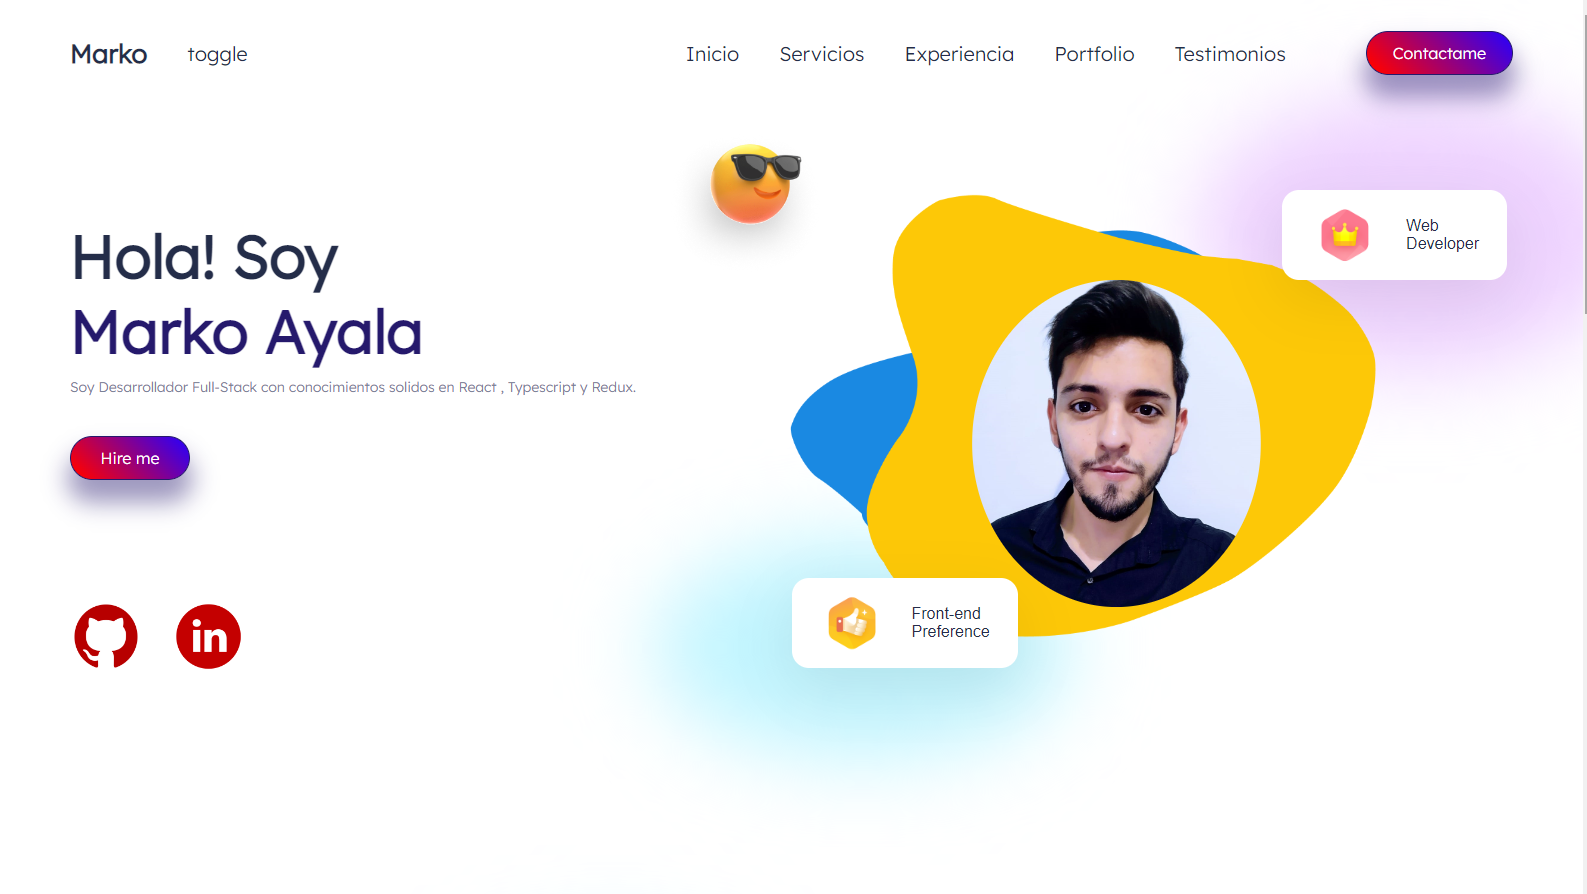
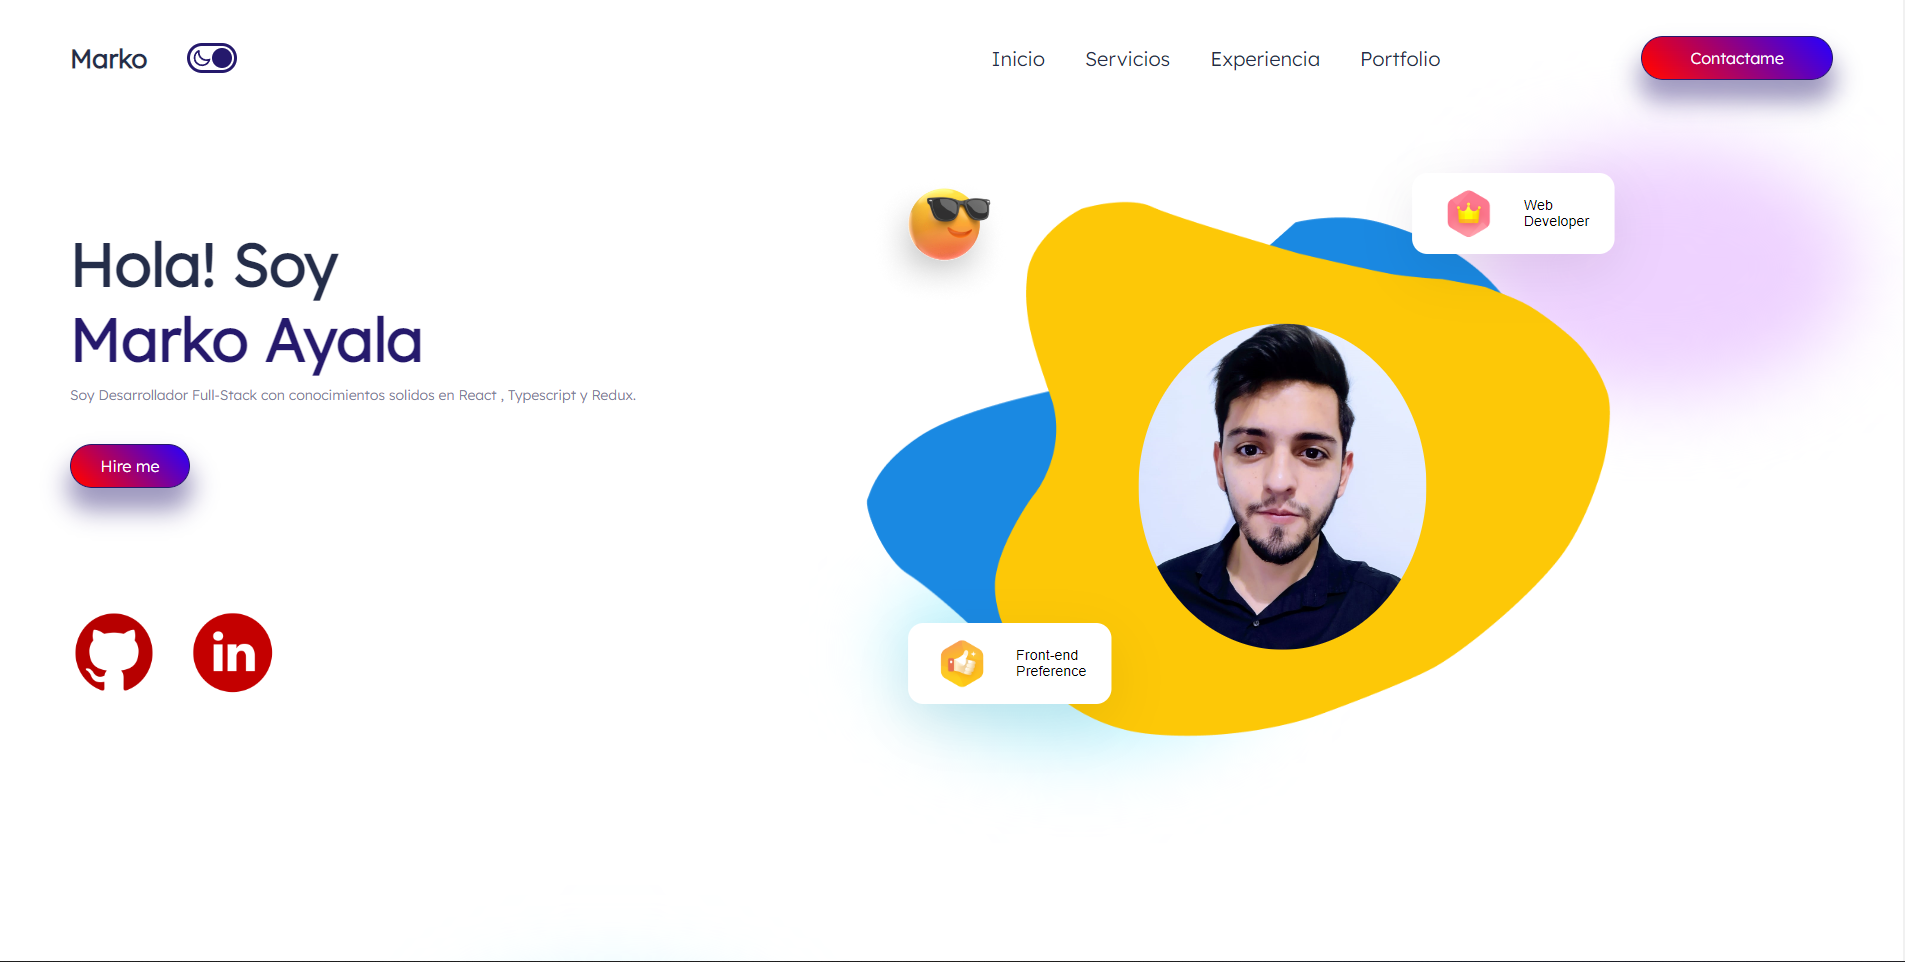
responsive end

diff --git a/src/Components/NavBar/Intro/Intro.css b/src/Components/NavBar/Intro/Intro.css
@@ -163,3 +163,32 @@ font-size: 3rem;
         margin-left: -4rem !important;
     }
 }
+@media screen and (max-width:899px) and (min-width:481px){
+    .intro{
+        flex-direction: column;
+        height: 64rem;
+        gap:7rem;
+    }
+    .i-right{
+        transform: scale(1.1);
+        left: 2.5rem;
+    }
+    .i-right .blur{
+        display: none;
+    }
+    .floating-div:nth-of-type(1){
+        top:-5rem !important;
+        left: 12rem !important;
+    }
+    .floating-div:nth-of-type(2){
+        left: -1rem !important;
+        top: 20rem !important;
+    }
+    .fotoCV{
+        width: 350px;
+        margin-left: 4rem !important;
+        position: absolute !important;
+        top: 5% !important;
+        left: 0% !important;
+    }
+}

diff --git a/src/Components/NavBar/Services/Services.css b/src/Components/NavBar/Services/Services.css
@@ -82,3 +82,24 @@
         margin-left: 8rem;
     }
 }
+
+@media screen and (max-width:899px) and (min-width:481px){
+    .services{
+        margin-top: 0;
+        flex-direction: column;
+        gap: 5rem;
+        height: 66rem;
+        padding: 0;
+
+    }
+    .cards{
+        display: flex;
+        flex-direction: column;
+        gap: 17rem;
+    }
+    .cards>*{
+        position: static;
+          display: flex;
+        justify-content: center;
+    }
+}

diff --git a/src/Components/NavBar/Contact/Contact.css b/src/Components/NavBar/Contact/Contact.css
@@ -48,3 +48,17 @@ textarea{
     }
 
 }   
+
+@media screen and (max-width:899px) and (min-width:481px){
+    .contact-form{
+        padding: 0;
+        flex-direction: column;
+        gap: 5rem;
+        height: 40rem;
+        margin-bottom: 1rem;
+        text-align: center;
+    }
+    .c-right .user{
+        width: 16rem;
+    }
+}
